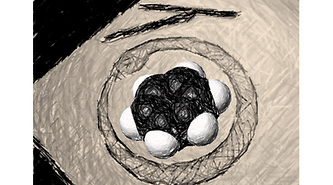
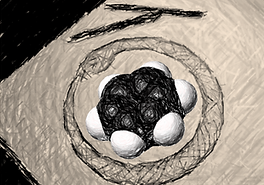
Added new Research Areas

diff --git a/src/pages/page.tsx b/src/pages/page.tsx
@@ -1,8 +1,6 @@
 import PageTitle from '@/components/ui/page-title'
 import { researchAreas } from '@/data/research-areas'
-import { Card, CardContent, CardDescription, CardHeader, CardTitle, } from "@/components/ui/card"
 import { cn } from '@/lib/utils'
-import { Separator } from '@/components/ui/separator'
 import _1 from '@/assets/img/slide1.jpg'
 import _2 from '@/assets/img/slide2.webp'
 import _3 from '@/assets/img/slide3.jpeg'
@@ -17,47 +15,47 @@ function HomePage() {
             <div>
                 <HeroSection />
 
-                <div className="px-6 md:px-12 py-14">
+                <div className="px-6 md:px-12 pt-14">
                     <PageTitle
-                        className='max-w-5xl mx-auto'
-                        title='Research Lines'
-                        subtitle='Our research interests include planar hypercoordinate carbon molecules,
-                            systems containing multiple bonds, endohedral complexes, dimetallocenes,
-                            complex materials, and molecules under extreme conditions such as high pressure.
-                            A central objective of our work is to gain fundamental insight into the
-                            structure, bonding, and electron delocalization of these systems.'
+                        className='max-w-6xl mx-auto'
+                        title='Research Areas'
+                        subtitle='Our research combines electronic structure theory, quantum chemistry, machine learning, and multiscale modeling to explore chemical bonding, molecular properties, reaction dynamics, spectroscopy, and the behavior of complex molecular systems.'
                         subtitleClassName='text-slate-600'
                     />
                 </div>
 
-                <section className='p-4 sm:p-10 space-y-10'>
-                    <div className='max-w-4xl mx-auto grid grid-cols-1 sm:grid-cols-3 gap-5'>
-                        {researchAreas.map(research => (
-                            <Card key={research.name} className={cn(
-                                'relative mx-auto w-full max-w-sm shadow-lg overflow-hidden pt-0 gap-0',
-                                'group hover:shadow-accent-foreground/20 transition-shadow',
-                                'hover:-translate-y-1 transition-transform duration-300'
-                            )}>
-                                <div className="absolute inset-0 aspect-video pointer-events-none" />
-                                <img
-                                    src={research.img || "https://avatar.vercel.sh/shadcn1"}
-                                    alt={research.name}
-                                    className={cn(
-                                        'relative aspect-video w-full object-cover',
-                                        'transition-all duration-500 group-hover:scale-105',
-                                        'ease-in-out bg-slate-100/10 group-hover:shadow-xl',
-                                    )}
-                                />
-                                <Separator />
-                                <CardHeader className='py-3'>
-                                    <CardTitle className='text-base md:text-xl font-bold'>{research.name}</CardTitle>
-                                </CardHeader>
-                                <CardContent>
-                                    <CardDescription className='text-sm md:text-base'>
+                <section className="p-5 sm:p-10 space-y-10 max-w-350 mx-auto">
+                    <div className="grid grid-cols-1 lg:grid-cols-2 xl:grid-cols-3 gap-4">
+                        {researchAreas.map((research, index) => (
+                            <div
+                                key={index}
+                                className={cn(
+                                    "flex flex-col lg:flex-row min-h-50 overflow-hidden rounded-xl border bg-background shadow-md/10"
+                                )}
+                            >
+                                <div className="shrink-0 w-full lg:w-auto lg:h-full lg:max-w-[50%]">
+                                    <img
+                                        src={research.img}
+                                        alt={research.name}
+                                        className="block w-full h-48 lg:h-full lg:w-auto object-cover"
+                                    />
+                                </div>
+                                <div className="flex-1 min-w-0 p-4 overflow-hidden">
+                                    <div className='flex gap-2 mb-2'>
+                                        <div className='size-7 rounded-full bg-main flex items-center justify-center text-white font-bold shrink-0'>
+                                            {index + 1}
+                                        </div>
+
+                                        <p className='tracking-tight leading-snug font-bold break-normal hyphens-none'>
+                                            {research.name.replace(/-/g, '\u2011')}
+                                        </p>
+                                    </div>
+
+                                    <p className="text-sm">
                                         {research.description}
-                                    </CardDescription>
-                                </CardContent>
-                            </Card>
+                                    </p>
+                                </div>
+                            </div>
                         ))}
                     </div>
                 </section>

diff --git a/src/data/research-areas.ts b/src/data/research-areas.ts
@@ -1,9 +1,12 @@
 import aromaticity from '@/assets/areas/Aromaticity.png'
-import automated from '@/assets/areas/Automated.png'
-import boro from '@/assets/areas/Boro.gif'
-import computational from '@/assets/areas/Computational.png'
-import extrem from '@/assets/areas/Extrem.png'
-import materials from '@/assets/areas/Materials.png'
+import reactionDynamics from '@/assets/areas/Abstract_SII - aura ximena gomez heredia.png'
+import automatedWorkflows from '@/assets/areas/anie70078-gra-0001-m - Gerardo Hernandez.png'
+import boronClusters from '@/assets/areas/Boro.gif'
+import materialsSystems from '@/assets/areas/Grafeno apilamiento - Maximiliano Yáñez.jpeg'
+import spectroscopy from '@/assets/areas/group - Fernando Martinez Villarino.png'
+import dataScienceAI from '@/assets/areas/Imagenproyecto - Elier Enrique Abreu Martinez.png'
+import interatomicPotentials from '@/assets/areas/Miguel_Fernandez_Montilla_Molina_Representative_Image_Boron_Clusters_NequIP_DFT_Comparison - Miguel Fernández-Montilla Molina.png'
+import astrochemistry from '@/assets/areas/toc-co2-1 - Fernando Murillo.png'
 
 type ResearchArea = {
     name: string
@@ -11,35 +14,50 @@ type ResearchArea = {
     img: string
 }
 
-export const researchAreas:ResearchArea[] = [
+export const researchAreas: ResearchArea[] = [
     {
-        name: 'Aromaticity',
-        description: 'Study of aromaticity, electron delocalization, and unconventional bonding patterns in molecular systems.',
+        name: 'Aromaticity & Non-Conventional Bonding',
+        description: 'Study of aromaticity, electron delocalization, and non-conventional bonding patterns in molecular systems.',
         img: aromaticity
     },
     {
-        name: 'Computational & Theoretical Chemistry',
-        description: 'Quantum chemical modeling of molecular structure, stability, and reactivity using advanced theoretical methods.',
-        img: computational
-    },
-    {
-        name: 'Boron Clusters',
-        description: 'Investigation of chemical reaction pathways, boron-containing compounds, and activation of small molecules.',
-        img: boro
+        name: 'Reaction Dynamics & Computational Kinetics',
+        description: 'Characterization of reaction mechanisms, transition states, and kinetic constants using advanced theoretical approaches.',
+        img: reactionDynamics
     },
     {
         name: 'Automated Workflows & Data-Driven Chemistry',
-        description: 'Development of automated computational workflows and data-assisted approaches for chemical research.',
-        img: automated
+        description: 'Development of automated workflows and machine learning tools to accelerate discovery and molecular analysis.',
+        img: automatedWorkflows
+    },
+    {
+        name: 'Boron Clusters & Boron Chemistry',
+        description: 'Investigation of boron clusters, boron-containing compounds, and their structural, electronic, and reactivity properties.',
+        img: boronClusters
     },
     {
         name: 'Materials & Molecular Systems',
-        description: 'Theoretical study of molecular materials, organometallic complexes, and functional molecular systems.',
-        img: materials
+        description: 'Theoretical study of molecular materials, organometallic complexes, 2D materials, and functional molecular systems.',
+        img: materialsSystems
     },
     {
-        name: 'Chemistry Under Extreme Conditions',
-        description: 'Exploration of molecular behavior under high pressure and other extreme physical conditions.',
-        img: extrem
+        name: 'Molecular Properties & Theoretical Spectroscopy',
+        description: 'Calculation of structural, electronic, magnetic, and spectroscopic properties to interpret and predict molecular behavior.',
+        img: spectroscopy
     },
+    {
+        name: 'Data Science & AI for Chemistry',
+        description: 'Application of machine learning, deep neural networks, and AI techniques for property prediction, activity, and structure elucidation.',
+        img: dataScienceAI
+    },
+    {
+        name: 'Interatomic Potentials & Multiscale Methods',
+        description: 'Development and application of machine-learned potentials (MLPs) and multiscale approaches to model complex systems with high accuracy.',
+        img: interatomicPotentials
+    },
+    {
+        name: 'Chemistry Under Extreme Conditions & Astrochemistry',
+        description: 'Exploration of molecular behavior under high pressure, high temperature, and astrochemical conditions.',
+        img: astrochemistry
+    }
 ]